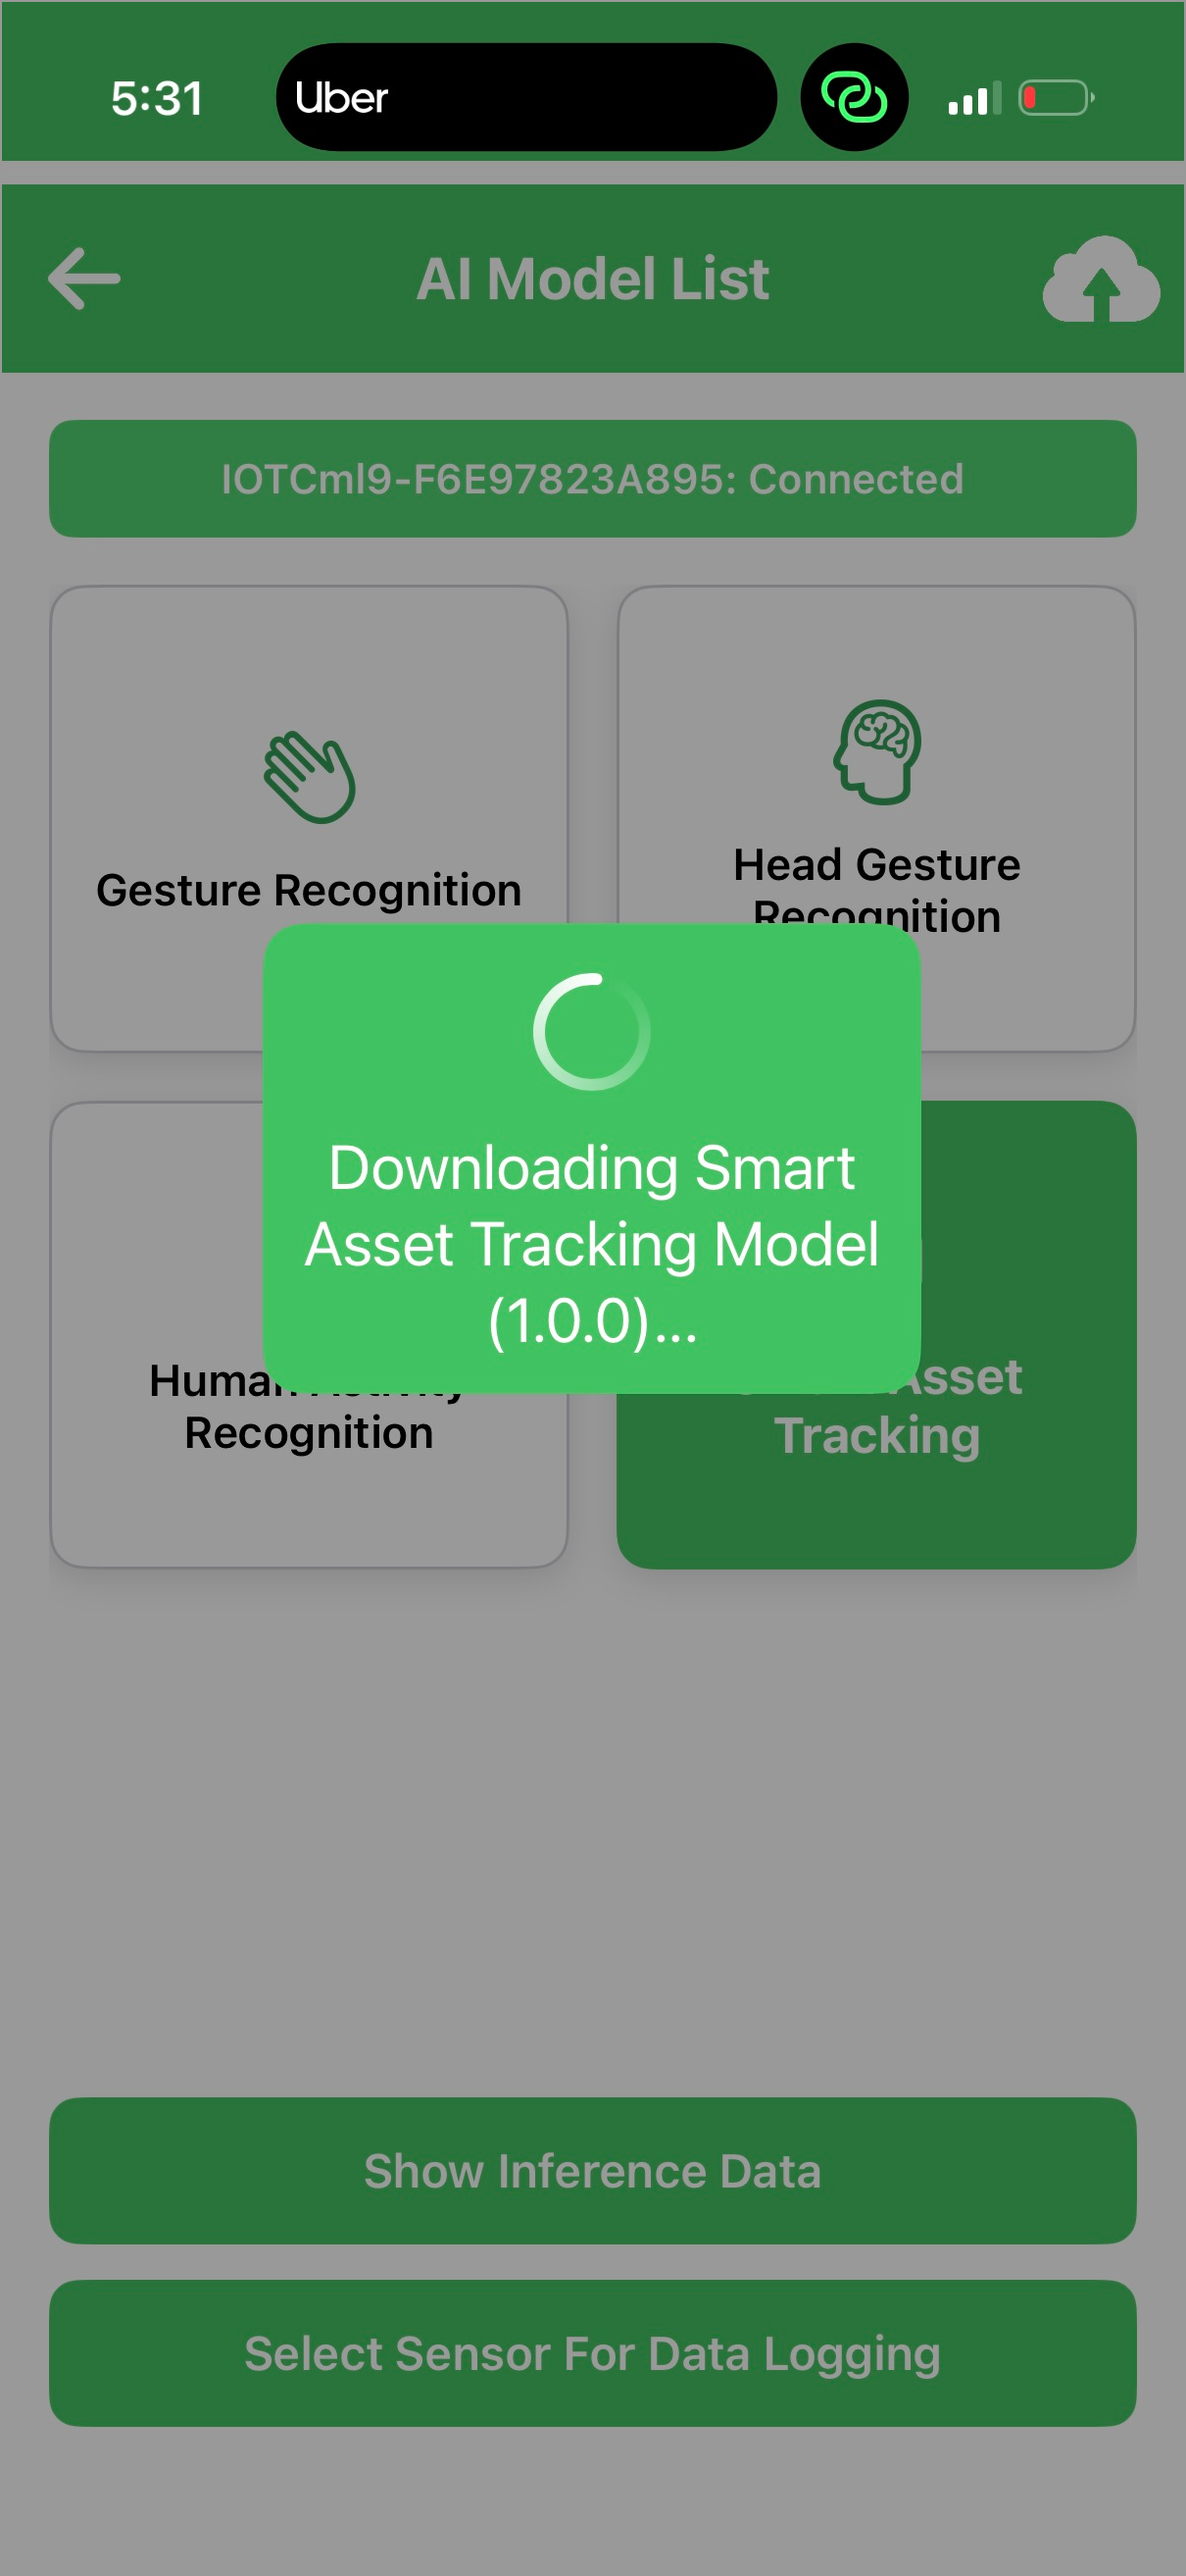
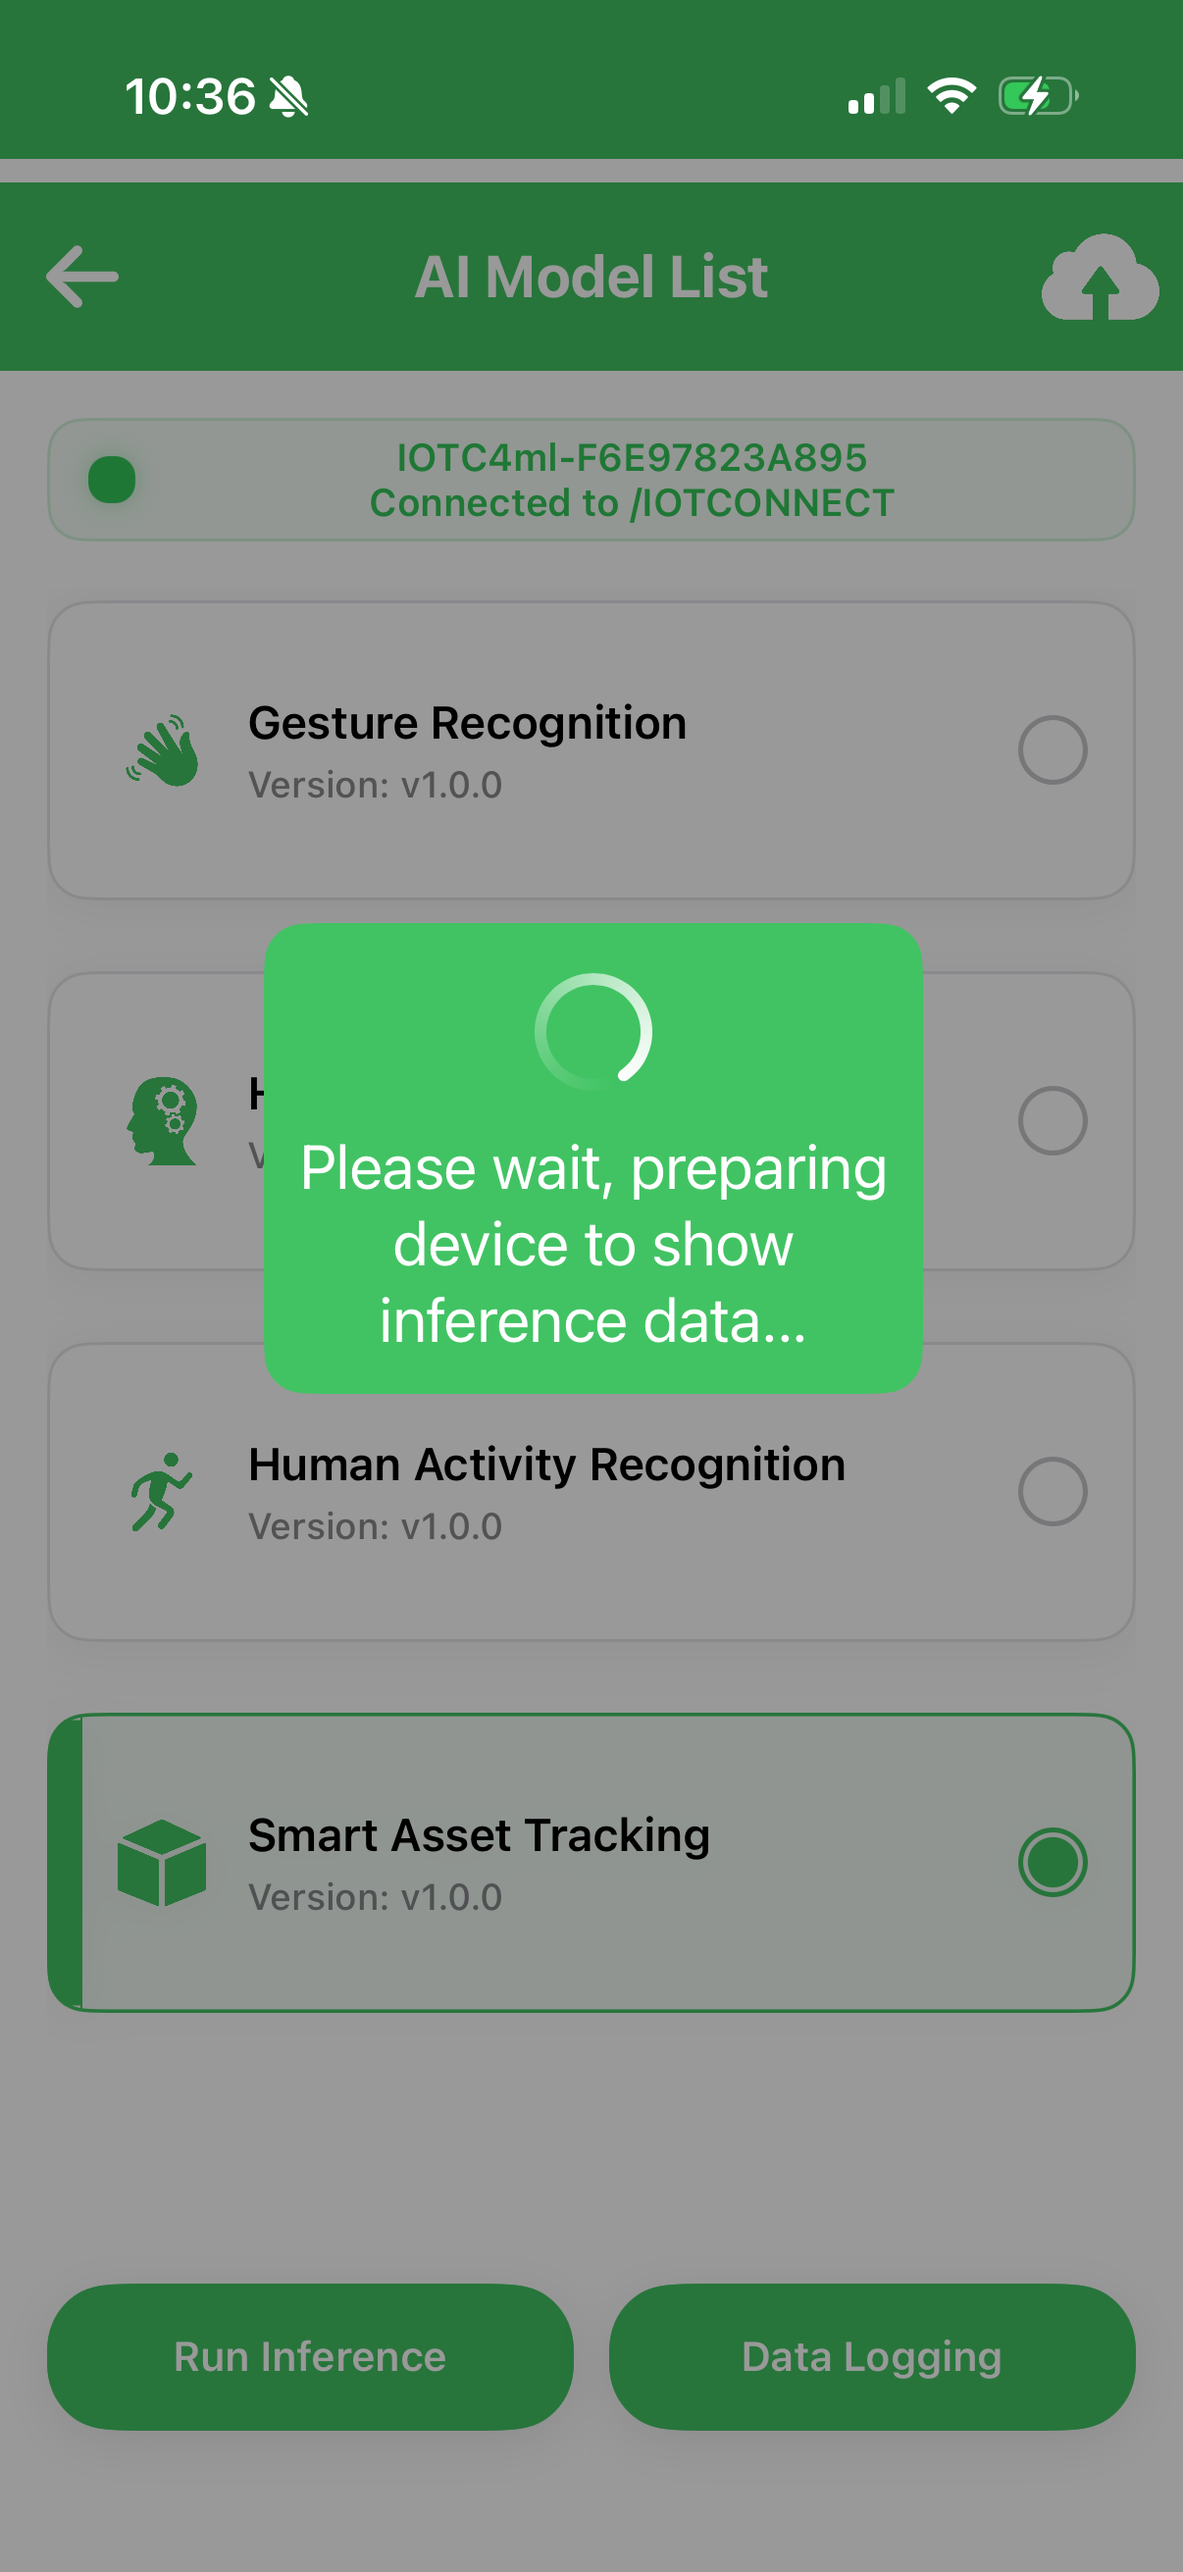
Update downloading-model shot and add data-logging entry step to Lab 2
- Replace 26_downloading_model.png with the new "preparing device to
  show inference data" loading screen (new list UI)
- Lab 2 step 1: add an explicit "get back to the AI Model List and tap
  Data Logging" instruction before picking the sensor, with a new
  annotated screenshot (Data Logging button boxed) so users coming from
  Lab 1 know to leave inference mode first

diff --git a/st_aiotcraft_lab2_train.md b/st_aiotcraft_lab2_train.md
@@ -23,9 +23,15 @@ You will also need a **USB-C or Lightning microSD card reader** that plugs into 
 
 This is the half of the loop that feeds **ST AIoT Craft**. Logging mode swaps the device out of inference and streams raw sensor samples into a session that gets zipped and uploaded to /IOTCONNECT.
 
+**Switch the box into data-logging mode**
+
+If you're coming from Lab 1 the box is still in inference mode, so first get back to the **AI Model List** screen in the Bridge App (tap the back arrow if you're on the inference view). With **Smart Asset Tracking** still selected, tap **Data Logging** at the bottom (highlighted below).
+
+<img src="images/st_aiotcraft/ai_model_list_datalogging_annotated.png" alt="AI Model List — tap Data Logging" width="240"/>
+
 **Pick the sensor**
 
-From the Bridge App's **AI Model List**, tap **Data Logging**. On the Select Sensor screen:
+On the Select Sensor screen:
 
 1. Tap **① Accelerometer**. The Start button activates as soon as a sensor is selected.
 2. Tap **② Start**.
